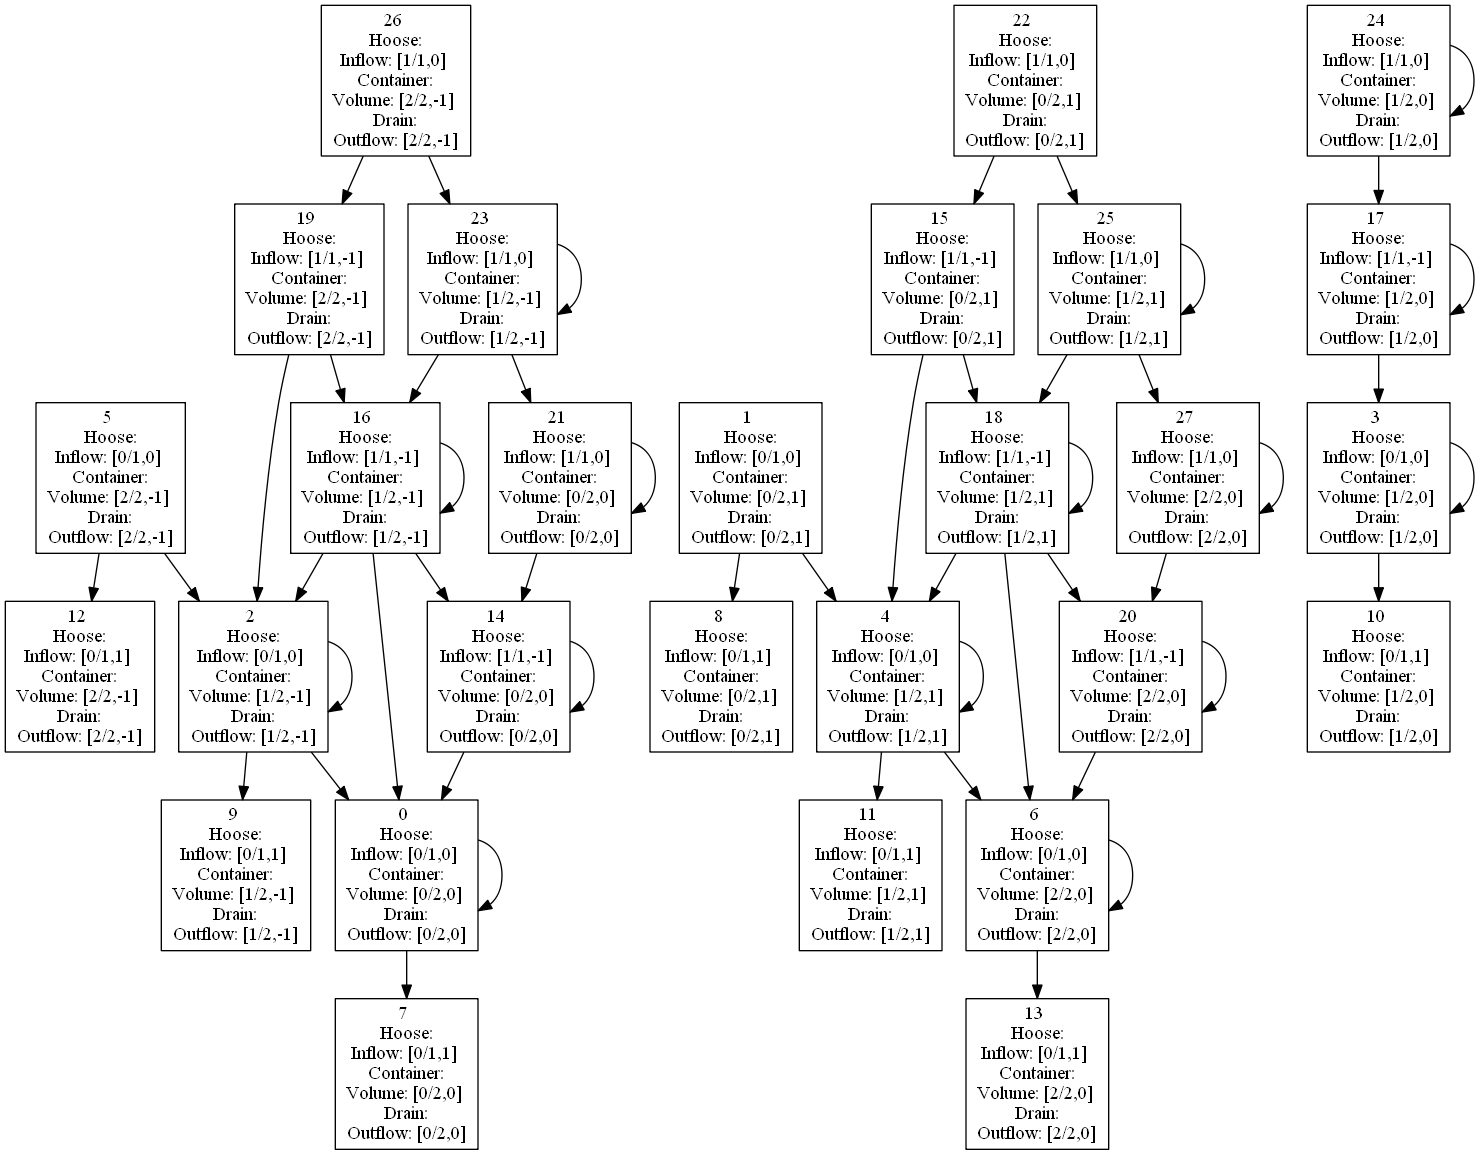
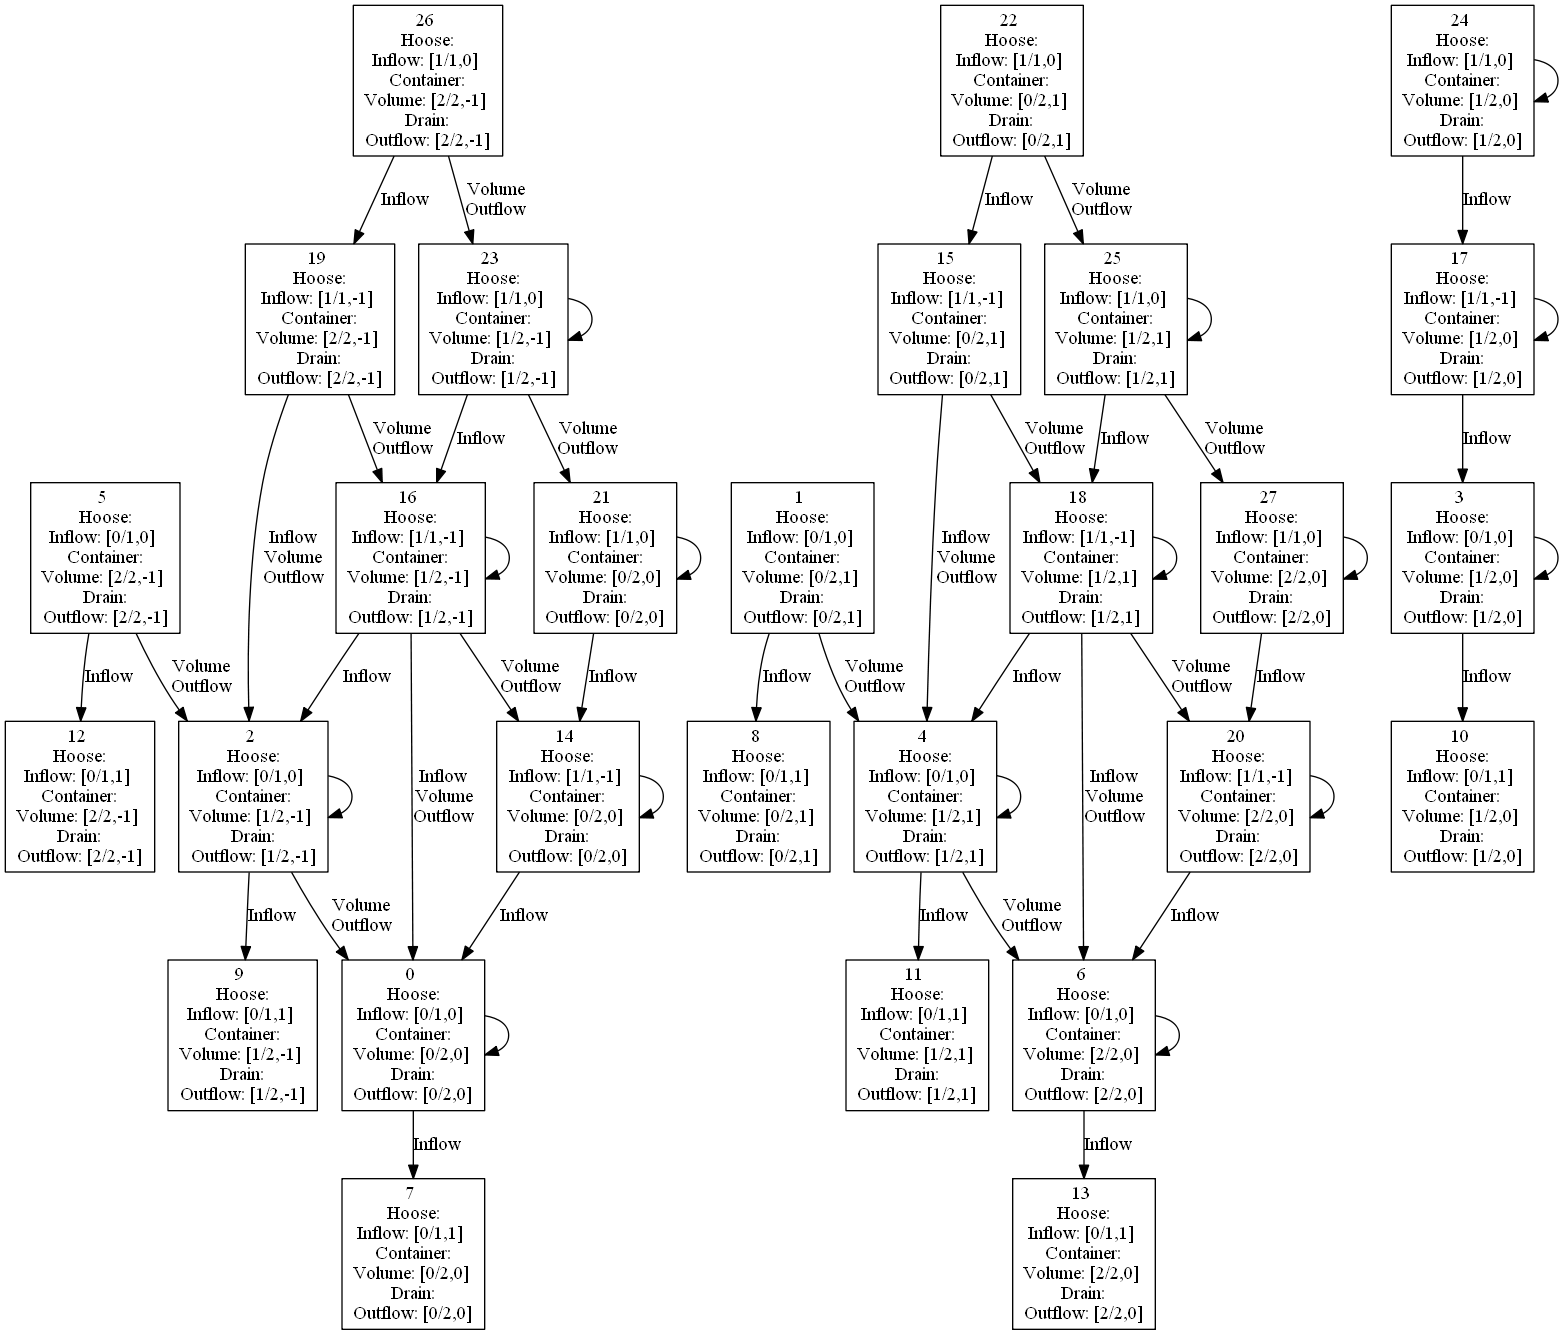
add explanation to the state graph

Changed region(s): [[0.0, 0.0, 1.0, 0.9974]]

diff --git a/connect_states.py b/connect_states.py
@@ -42,7 +42,7 @@ def state_copy(state):
 
     return c_s
         
-def add_directional_connection(prev_s, next_s):
+def add_directional_connection(prev_s, next_s, explanation = ""):
     """makes the directional connections between states.
     Inputs:
         prev_s: (dict state format) the previous state.
@@ -56,9 +56,9 @@ def add_directional_connection(prev_s, next_s):
     
     #add the id of the next state to the previous state.
     if prev_s.get("next"):
-        prev_s["next"].add(next_s["id"])
+        prev_s["next"][next_s["id"]] = explanation
     else:
-        prev_s["next"] = {next_s["id"]}
+        prev_s["next"] = {next_s["id"]: explanation}
         
     #add the id of the previous state to the next state.
     if next_s.get("prev"):
@@ -124,7 +124,20 @@ def list_to_state(list_state, a_state):
             
     return c_state
 
-
+def diff_of_states(state1, state2):
+    diffs = ""
+    
+    for entity in state1:
+        
+        #ignored values
+        if (entity == "id") | (entity == "prev") | (entity == "next"):
+            continue
+        
+        for q in state1[entity]:
+           if state1[entity][q] != state2[entity][q]:
+               diffs += str(q) + "\n"
+    
+    return diffs
 
     
 def connect_states(unconnected_states):
@@ -167,8 +180,11 @@ def connect_states(unconnected_states):
 
                 if new_s == s_2:
                     
+                    #get the explanation for the state
+                    explanation = diff_of_states(s_1, s_2)
+                    
                     #connects states
-                    add_directional_connection(s_1, s_2) 
+                    add_directional_connection(s_1, s_2, explanation) 
         
         #external influences:
         
@@ -188,7 +204,12 @@ def connect_states(unconnected_states):
                             
                             #if the rest of the state is the same
                             if compare_states_except(s_1, s_2, exc_quantity = "Inflow"):
-                                add_directional_connection(s_1, s_2) 
+                                
+                                #get the explanation for the state
+                                explanation = diff_of_states(s_1, s_2)
+                                
+                                #connect states
+                                add_directional_connection(s_1, s_2, explanation) 
             
             #close tap
             #if the tap is open
@@ -201,7 +222,12 @@ def connect_states(unconnected_states):
                             
                             #if the rest of the state is the same
                             if compare_states_except(s_1, s_2, exc_quantity = "Inflow"):
-                                add_directional_connection(s_1, s_2) 
+                                
+                                #get the explanation for the state
+                                explanation = diff_of_states(s_1, s_2)
+                                
+                                #connect states
+                                add_directional_connection(s_1, s_2, explanation) 
             
             
         

diff --git a/graph_maker.py b/graph_maker.py
@@ -66,7 +66,7 @@ def make_state_graph(states, name="state_graph"):
         
         #perform all the edges
         for n_s in next_ss:
-            graph.add_edge(pydot.Edge(node[i], node[n_s]))
+            graph.add_edge(pydot.Edge(node[i], node[n_s], label=s["next"][n_s]))
     
     #saves the graph.
     graph.write_png(name+'.png')
